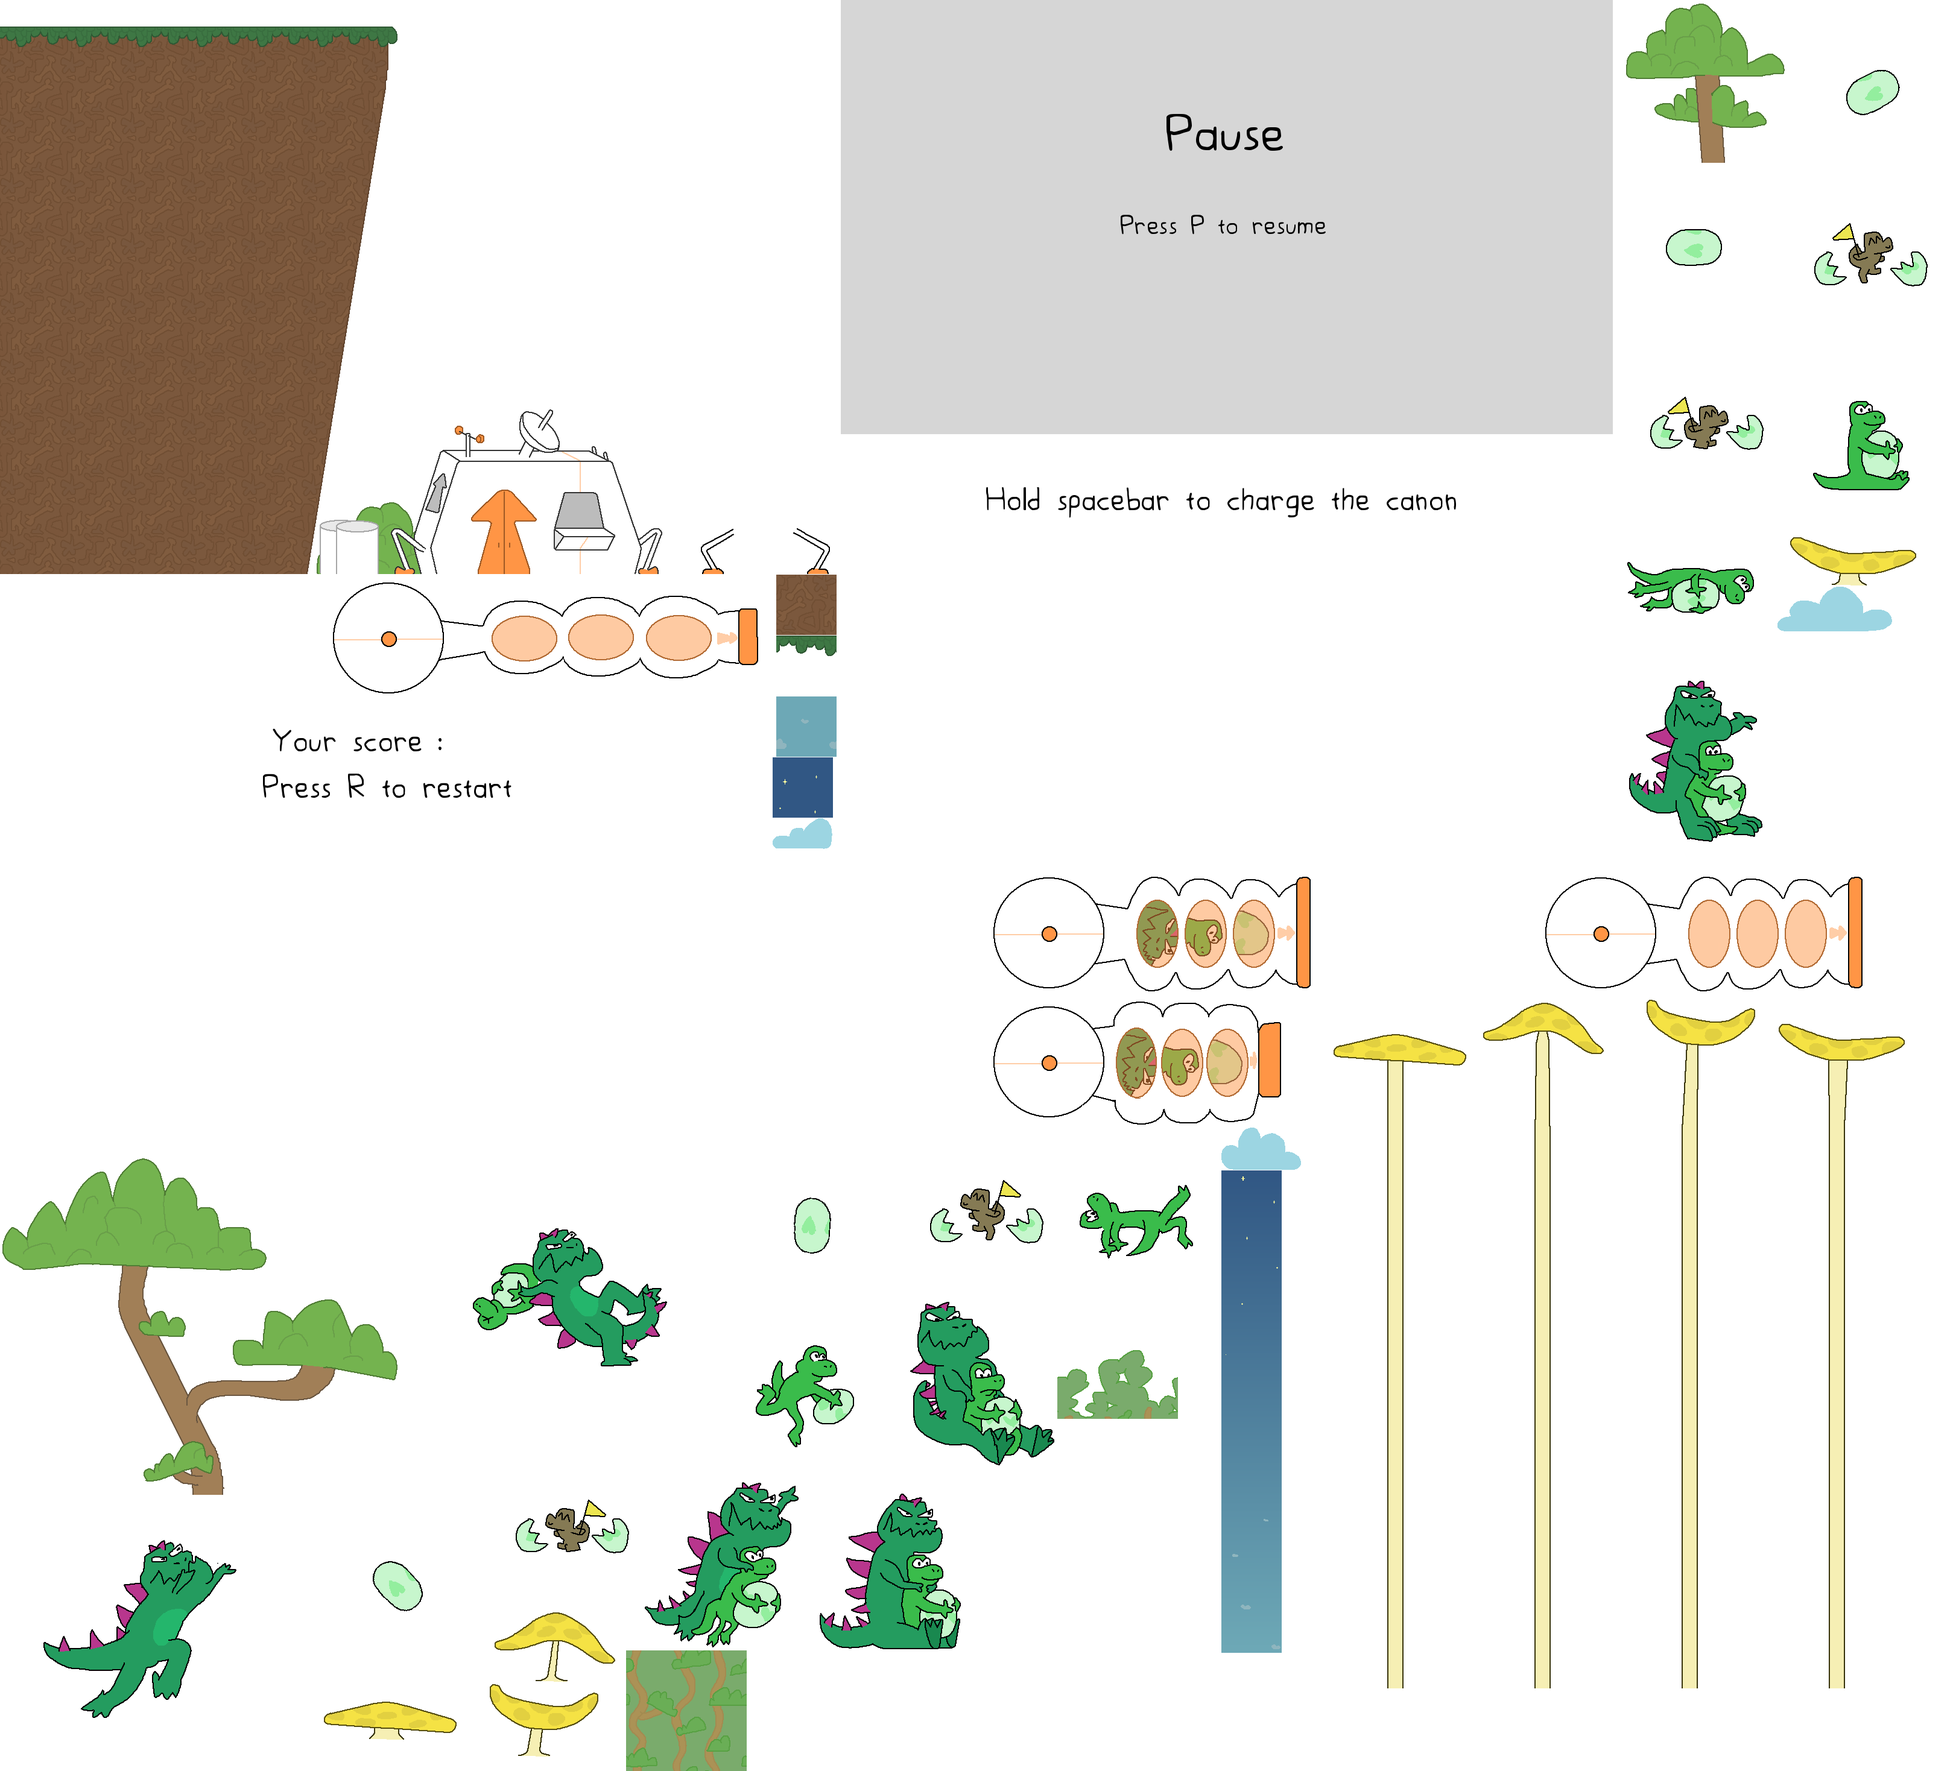
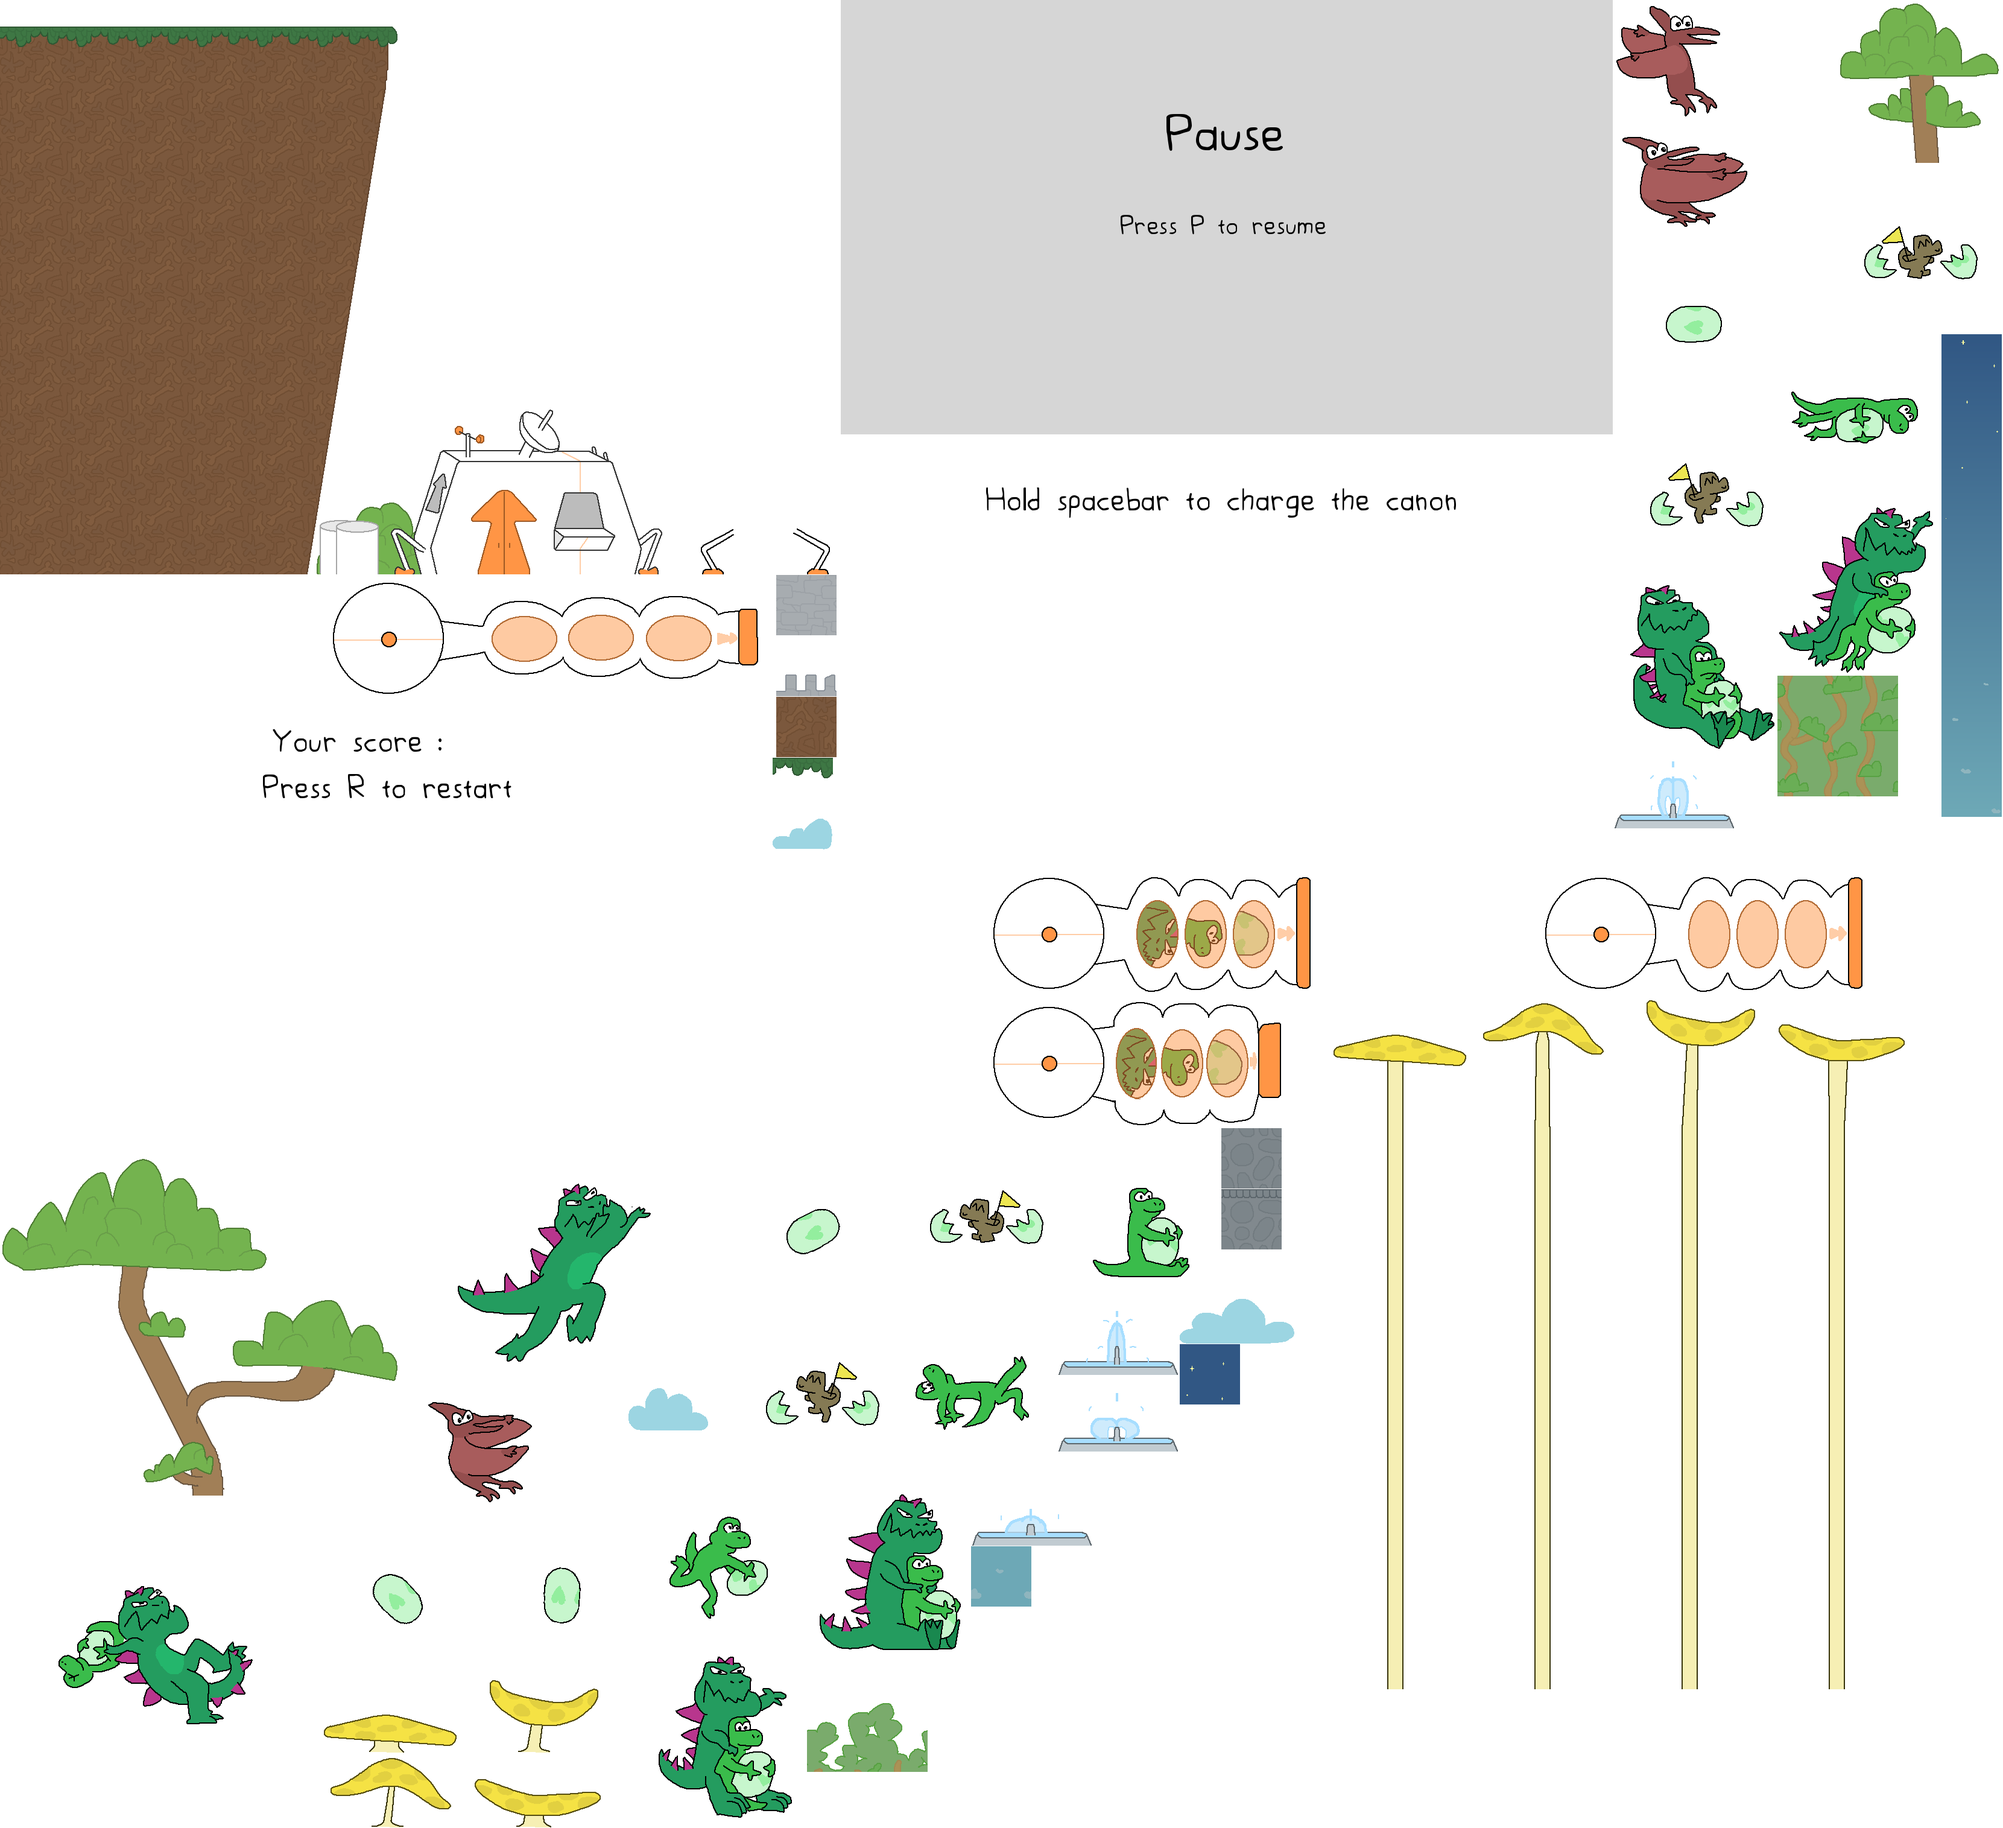
Add WorldObjects : Balloon, Fountain, Pterodactylus, Tower

diff --git a/Components/WorldGenerator.cs b/Components/WorldGenerator.cs
@@ -17,7 +17,7 @@ class WorldGenerator : Component, IUpdatable
             return;
         if (Random.NextInt((int)(500 / probaMultiplier)) == 0)
         {
-            int type = Random.NextInt(2);
+            int type = Random.NextInt(3);
             int yPosition;
             switch (type) {
                 case 0:
@@ -34,6 +34,15 @@ class WorldGenerator : Component, IUpdatable
                     if (checkPosition(new Vector2(xPosition, yPosition - 517)))
                     {
                         var newComponent = Entity.Scene.CreateEntity("tall_bumper").AddComponent<TallBumper>();
+                        newComponent.Transform.Position = new Vector2(xPosition, yPosition);
+                        newComponent.Transform.Parent = this.Transform;
+                    }
+                    break;
+                case 2:
+                    yPosition = -Constants.TREES_HEIGHT - Random.NextInt(2 * (Constants.SKY_HEIGHT - Constants.TREES_HEIGHT));
+                    if (checkPosition(new Vector2(xPosition, yPosition), 500))
+                    {
+                        var newComponent = Entity.Scene.CreateEntity("ptero").AddComponent<Pterodactylus>();
                         newComponent.Transform.Position = new Vector2(xPosition, yPosition);
                         newComponent.Transform.Parent = this.Transform;
                     }

diff --git a/Components/Balloon.cs b/Components/Balloon.cs
@@ -1,0 +1,37 @@
+using Microsoft.Xna.Framework.Audio;
+using Microsoft.Xna.Framework;
+using Nez;
+using Nez.Sprites;
+
+class Balloon : WorldObject, ITriggerListener
+{
+    protected SpriteAnimator animator;
+    protected SoundEffect bounceSound;
+
+    public override void OnAddedToEntity()
+    {
+        var collider = Entity.AddComponent(new BoxCollider(-110, -10, 220, 80));
+        collider.IsTrigger = true;
+
+        animator = Entity.AddComponent(new SpriteAnimator() { LayerDepth = .5f });
+        animator.AddAnimation("idle", new[] { Game.Atlas.GetSprite("balloon") });
+
+        bounceSound = Core.Content.Load<SoundEffect>("bounce");
+
+        base.OnAddedToEntity();
+    }
+    
+    public void OnTriggerEnter(Collider other, Collider local)
+    {
+        var player = other.GetComponent<Player>();
+        //player.Velocity += ;
+
+        bounceSound.Play();
+
+        animator.Play("bump", SpriteAnimator.LoopMode.Once);
+    }
+
+    public void OnTriggerExit(Collider other, Collider local)
+    {
+    }
+}

diff --git a/Components/Tower.cs b/Components/Tower.cs
@@ -1,0 +1,35 @@
+using Microsoft.Xna.Framework.Audio;
+using Nez;
+using Nez.Sprites;
+
+class Tower : WorldObject, ITriggerListener
+{
+    protected SpriteAnimator animator;
+    protected SoundEffect breakSound;
+
+    public override void OnAddedToEntity()
+    {
+        var collider = Entity.AddComponent(new BoxCollider(100, 150));
+        collider.IsTrigger = true;
+
+        animator = Entity.AddComponent(new SpriteAnimator() { LayerDepth = .5f });
+        animator.AddAnimation("idle", new[] { Game.Atlas.GetSprite("tower1") });
+        animator.AddAnimation("break", Game.Atlas.GetAnimation("tower"));
+
+        breakSound = Core.Content.Load<SoundEffect>("tower_break");
+
+        base.OnAddedToEntity();
+    }
+
+    public void OnTriggerEnter(Collider other, Collider local)
+    {
+        var player = other.GetComponent<Player>();
+        player.Velocity.X /= 2;
+
+        animator.Play("break", SpriteAnimator.LoopMode.Once);
+    }
+
+    public void OnTriggerExit(Collider other, Collider local)
+    {
+    }
+}

diff --git a/Components/Pterodactylus.cs b/Components/Pterodactylus.cs
@@ -1,0 +1,30 @@
+using Nez;
+using Nez.Sprites;
+
+class Pterodactylus : WorldObject, ITriggerListener
+{
+    protected SpriteAnimator animator;
+
+    public override void OnAddedToEntity()
+    {
+        var collider = Entity.AddComponent(new BoxCollider(-75, -75, 250, 150));
+        collider.IsTrigger = true;
+
+        animator = Entity.AddComponent(new SpriteAnimator() { LayerDepth = .5f });
+        animator.AddAnimation("idle", Game.Atlas.GetAnimation("ptero"));
+        animator.Play("idle");
+
+        base.OnAddedToEntity();
+    }
+
+    public void OnTriggerEnter(Collider other, Collider local)
+    {
+        var player = other.GetComponent<Player>();
+        if (player.Velocity.X < 2000)
+            player.Velocity.X += 300;
+    }
+
+    public void OnTriggerExit(Collider other, Collider local)
+    {
+    }
+}

diff --git a/Components/Fountain.cs b/Components/Fountain.cs
@@ -1,0 +1,24 @@
+using Nez;
+using Nez.Sprites;
+
+class Fountain : Bumper
+{
+    public override void OnAddedToEntity()
+    {
+        base.OnAddedToEntity();
+
+        Entity.GetComponent<BoxCollider>().SetSize(220, 40);
+
+        Entity.RemoveComponent<SpriteAnimator>();
+        animator = Entity.AddComponent(new SpriteAnimator() { LayerDepth = .5f });
+        animator.AddAnimation("idle", Game.Atlas.GetAnimation("fountain"));
+        animator.AddAnimation("bump", Game.Atlas.GetAnimation("fountain"));
+        animator.Play("idle");
+    }
+
+    public new void OnTriggerEnter(Collider other, Collider local)
+    {
+        base.OnTriggerEnter(other, local);
+        animator.Play("idle");
+    }
+}
